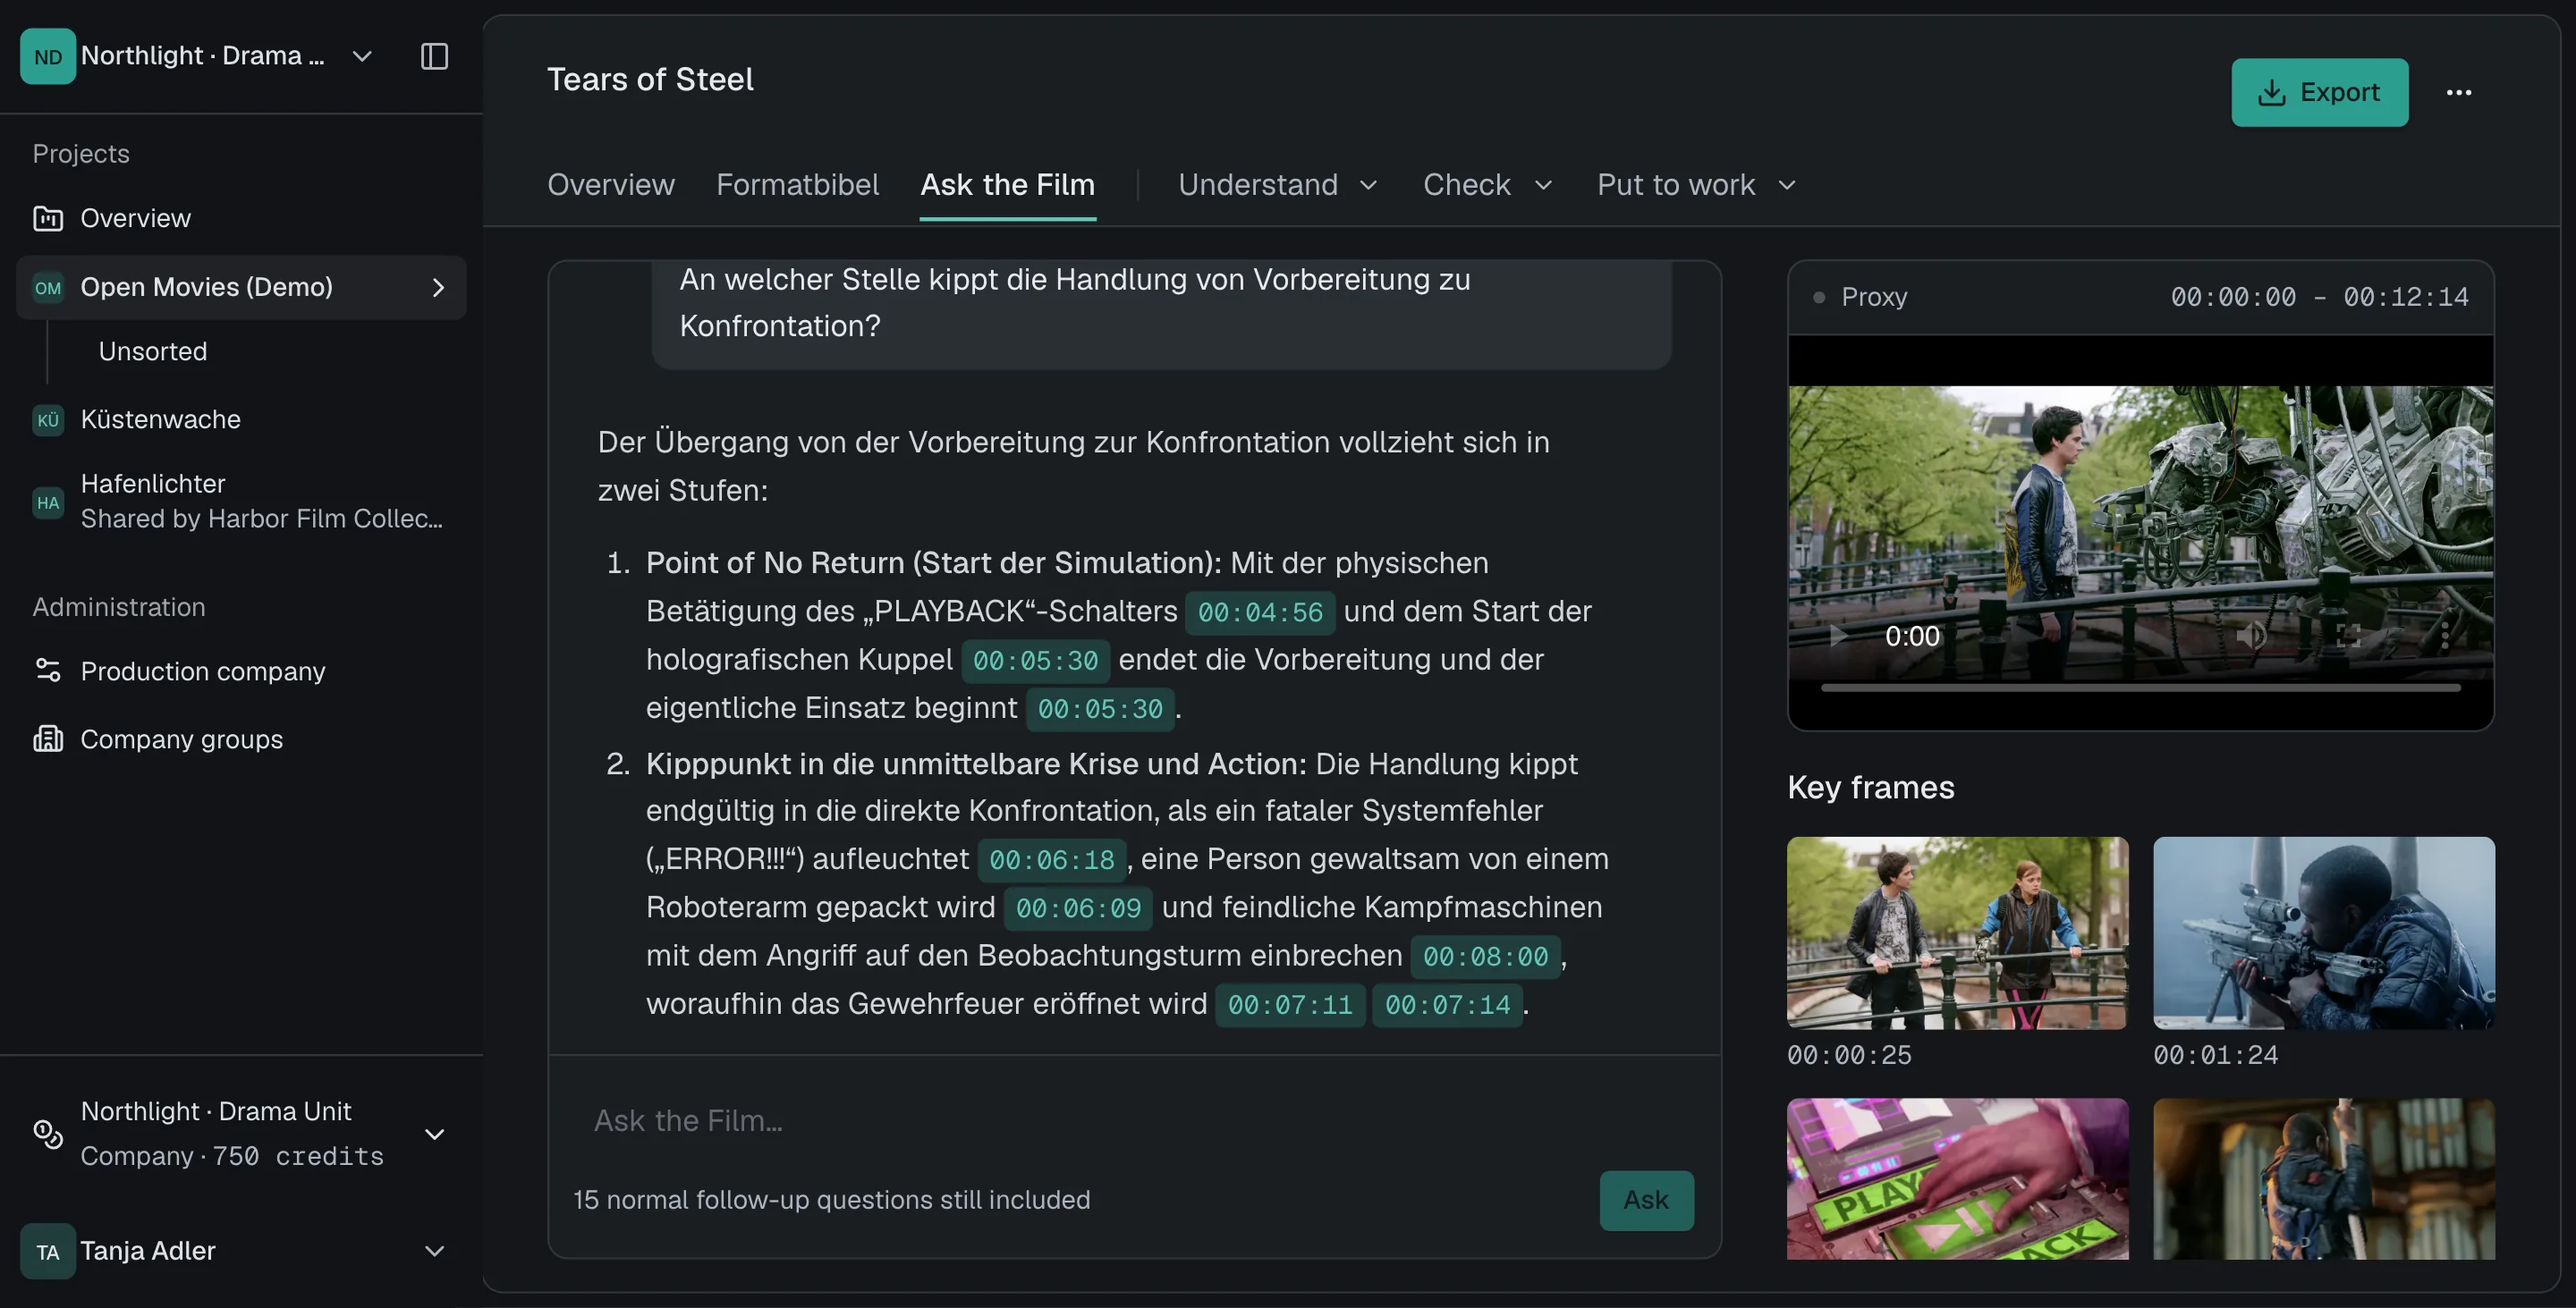
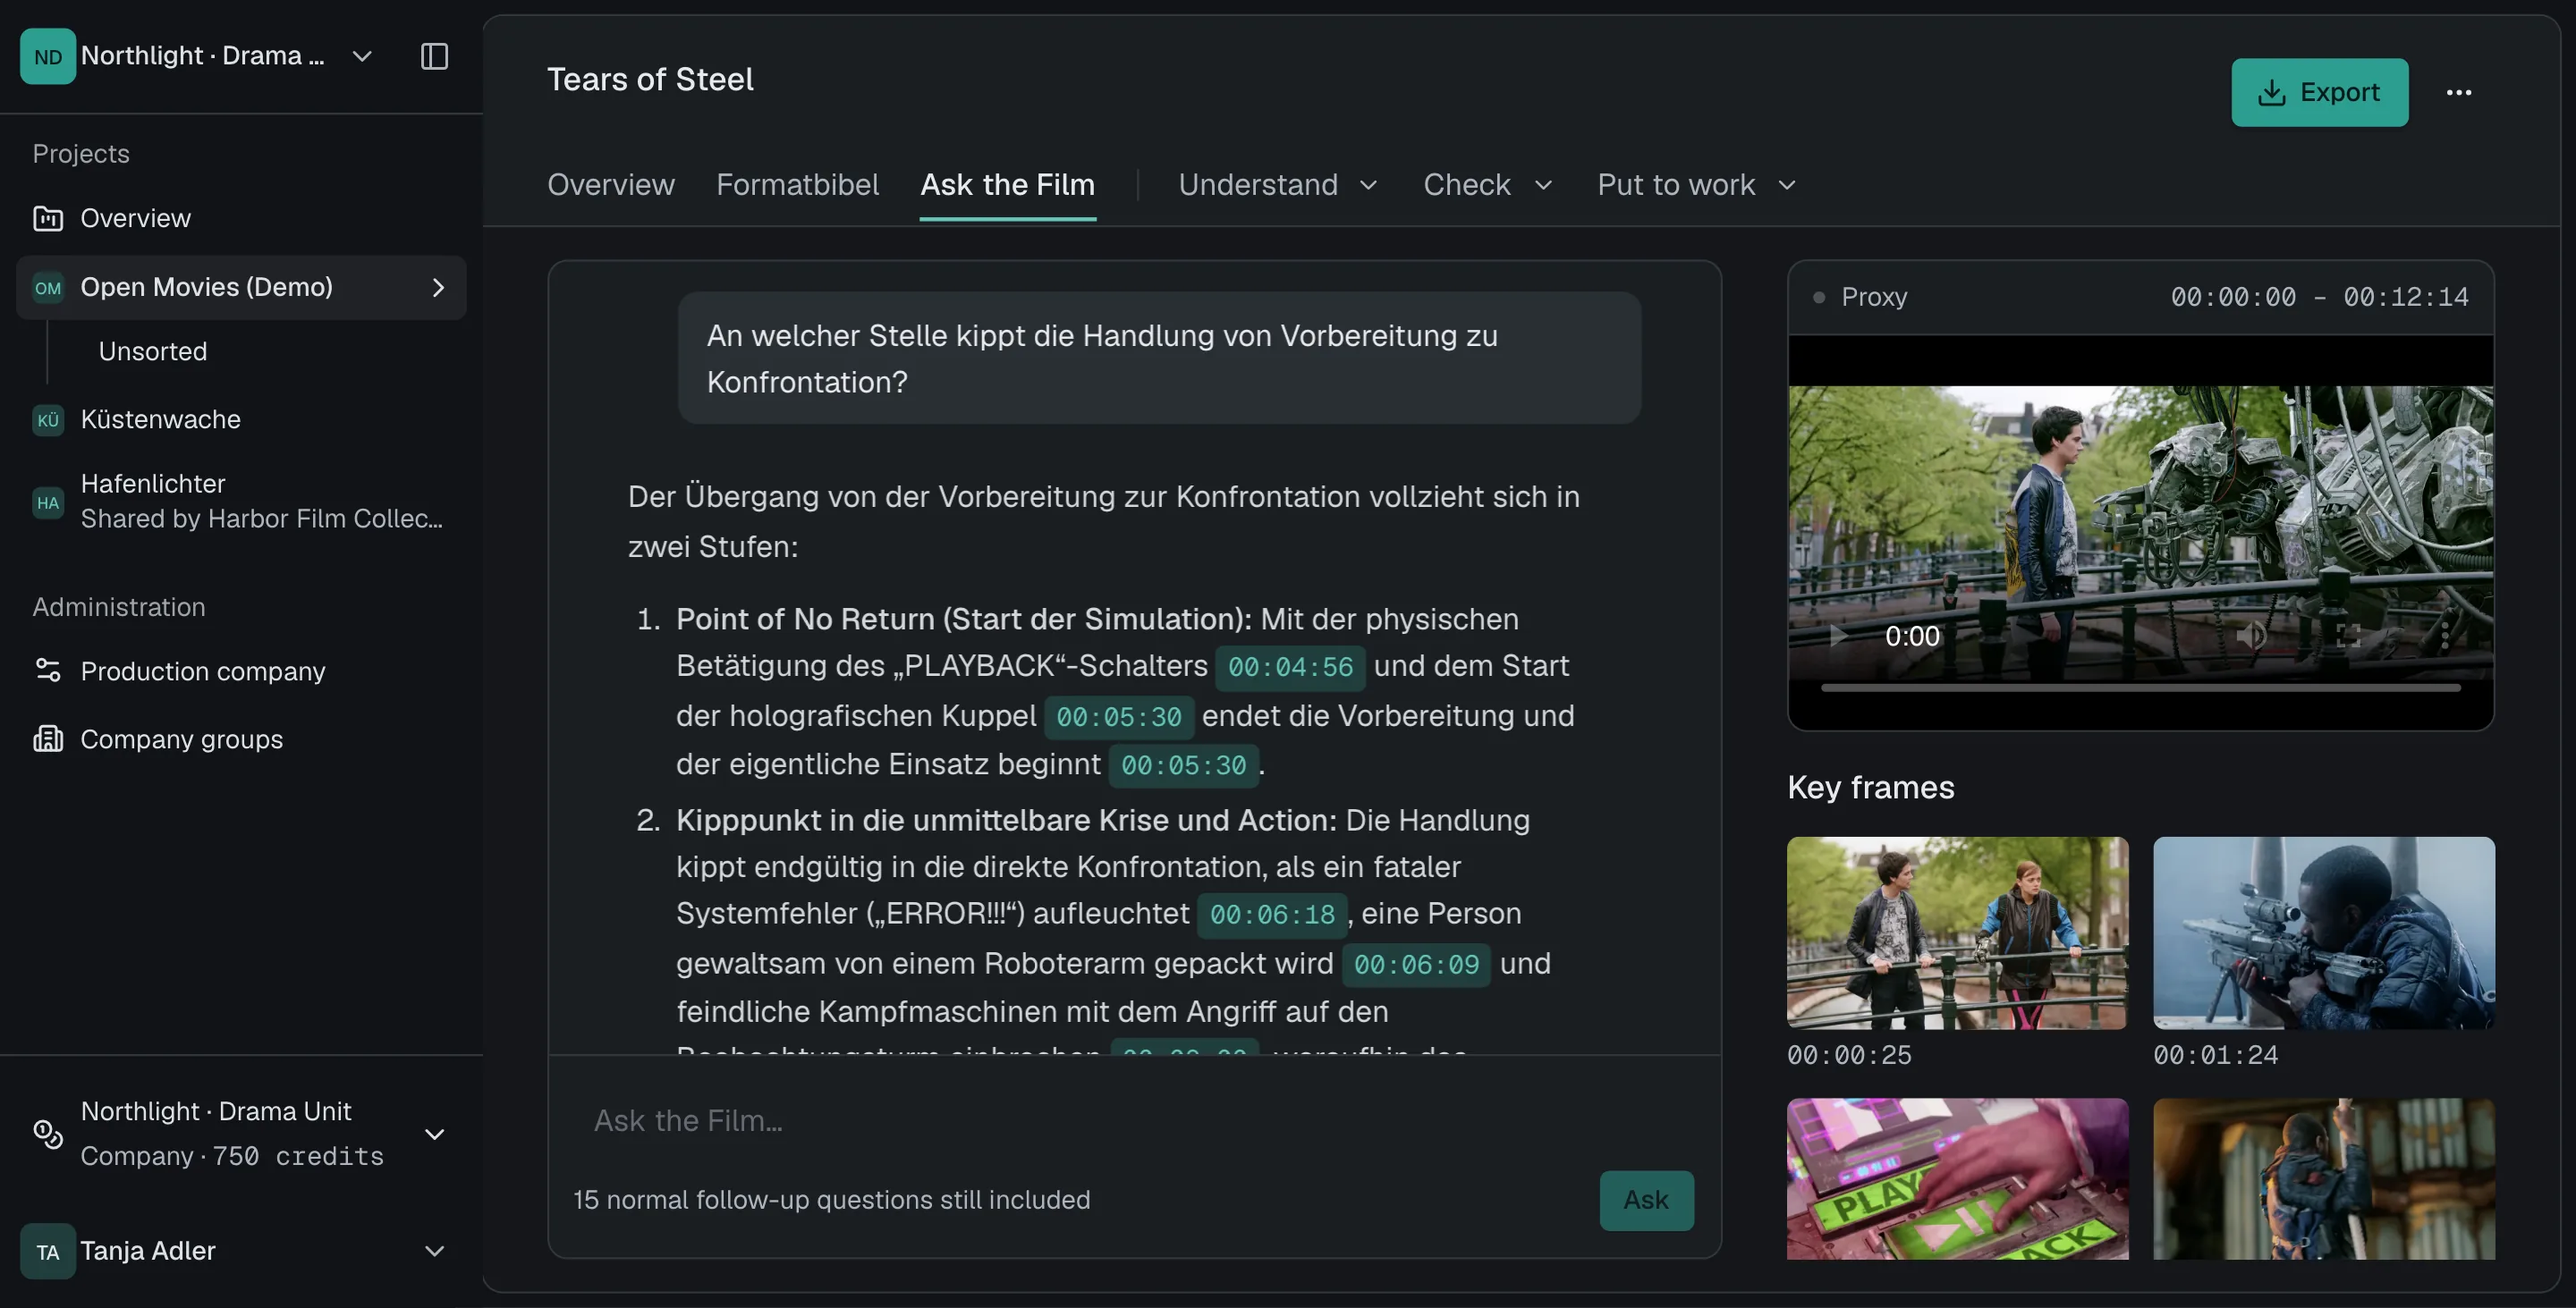
Show screencurve's new landing and its German app on German pages
screencurve.com now opens on its Laufzeitleiste (screencurve PR #86), so
the cover picture is the live site's new first screen. German pages now
show the German app: a locale file may name its own pictures, and the
German case study, cover and card still come from screencurve's German
captures. The home wall picks the German screens on German pages too.

The English app views were recaptured and match the current pictures,
so they stay; only the chat view is new, scrolled so its question shows.
The card stills follow the MP Bau stand-in: the scene's first frame at
800px, transparent ground. Every screencurve picture moves to
?v=20261115-laufzeitleiste.

Changed region(s): [[0.2188, 0.3076, 0.625, 0.8305], [0.25, 0.1846, 0.5938, 0.3076], [0.4688, 0.1846, 0.5312, 0.2153]]

diff --git a/apps/web/src/components/marketing/home/hero-wall.tsx b/apps/web/src/components/marketing/home/hero-wall.tsx
@@ -8,12 +8,15 @@ import "./hero-wall.css";
 const shots = "/images/case-studies";
 const wall = "/images/home/wall";
 const obsidian = "?v=20261111-eagle-obsidian";
-const openMovies = "?v=20261114-open-movies";
+const laufzeitleiste = "?v=20261115-laufzeitleiste";
 
 /** A desktop screen. A wide one is 2:1, the others 16:10, as the screens
  * are. With `page`, the picture is a long page (its height over its width)
  * that scrolls inside the frame. */
 interface Screen {
+	/** The same screen in German, for a product whose pictures follow the
+	 * page's locale. */
+	de?: string;
 	page?: number;
 	src: string;
 	wide?: boolean;
@@ -48,7 +51,11 @@ const COLUMNS: Tile[][] = [
 		{ src: `${shots}/relay/view-3.webp` },
 		{ src: `${shots}/old-world-labs/sectors.webp`, wide: true },
 		{ src: `${shots}/morrow/hero-v3.webp` },
-		{ src: `${shots}/screencurve/ask-the-film.webp${openMovies}`, wide: true },
+		{
+			src: `${shots}/screencurve/ask-the-film.webp${laufzeitleiste}`,
+			de: `${shots}/screencurve/ask-the-film-de.webp${laufzeitleiste}`,
+			wide: true,
+		},
 		{ src: `${shots}/kernspan/assembly-v2.webp` },
 	],
 	[
@@ -92,7 +99,11 @@ const COLUMNS: Tile[][] = [
 			wide: true,
 		},
 		{ src: `${shots}/relay/hero-v2.webp` },
-		{ src: `${shots}/screencurve/landing.webp${openMovies}`, wide: true },
+		{
+			src: `${shots}/screencurve/landing.webp${laufzeitleiste}`,
+			de: `${shots}/screencurve/landing-de.webp${laufzeitleiste}`,
+			wide: true,
+		},
 		{ src: `${shots}/keel/view-1.webp` },
 		{ src: `${shots}/hyyve/how-it-works.webp`, wide: true },
 		{ src: `${shots}/morrow/graph-v3.webp` },
@@ -157,7 +168,13 @@ function Picture({
 /** The first screen's showreel: real screens of the projects as one wall,
  * turned a few degrees, its columns drifting slowly against each other.
  * Every frame is shown whole and undistorted, and a few pages scroll. */
-export default function HeroWall({ label }: { label: string }) {
+export default function HeroWall({
+	label,
+	locale,
+}: {
+	label: string;
+	locale: string;
+}) {
 	return (
 		<div
 			aria-label={label}
@@ -214,7 +231,7 @@ export default function HeroWall({ label }: { label: string }) {
 											page={tile.page}
 											shape={tile.wide ? 0.5 : 0.625}
 											sizes={SCREEN_SIZES}
-											src={tile.src}
+											src={(locale === "de" && tile.de) || tile.src}
 										/>
 									</span>
 								)

diff --git a/apps/web/src/data/case-studies.ts b/apps/web/src/data/case-studies.ts
@@ -111,7 +111,11 @@ const caseStudyContentSchema = z.object({
 
 const localizedCaseStudyFileSchema = caseStudyContentSchema
 	.extend({
+		// Pictures of a product shown in this locale's own interface
+		cardImage: z.string().min(1).optional(),
+		coverImage: z.string().min(1).optional(),
 		deliveryTime: z.string().min(1).optional(),
+		images: z.array(z.string().min(1)).optional(),
 		industry: z.string().min(1).optional(),
 		location: z.string().min(1).optional(),
 	})
@@ -266,6 +270,7 @@ function toCaseStudy(slug: string, locale: string): CaseStudy | null {
 
 	const localeFile = locale === "en" ? null : getLocalizedFile(slug, locale);
 	const content = localeFile ?? enFile;
+	const images = localeFile?.images ?? enFile.images;
 
 	return {
 		slug,
@@ -274,9 +279,9 @@ function toCaseStudy(slug: string, locale: string): CaseStudy | null {
 		industry: localeFile?.industry ?? enFile.industry,
 		services: [...enFile.services],
 		date: enFile.date,
-		cardImage: enFile.cardImage,
-		coverImage: enFile.coverImage,
-		images: enFile.images ? [...enFile.images] : undefined,
+		cardImage: localeFile?.cardImage ?? enFile.cardImage,
+		coverImage: localeFile?.coverImage ?? enFile.coverImage,
+		images: images ? [...images] : undefined,
 		imageAlts: content.imageAlts ? [...content.imageAlts] : undefined,
 		fullPageImage: enFile.fullPageImage,
 		location: localeFile?.location ?? enFile.location,

diff --git a/apps/web/src/components/marketing/home/hero.tsx b/apps/web/src/components/marketing/home/hero.tsx
@@ -1,5 +1,5 @@
 import Image from "next/image";
-import { getTranslations } from "next-intl/server";
+import { getLocale, getTranslations } from "next-intl/server";
 
 import { ActionLink } from "@/components/marketing/action";
 import HeroWall from "@/components/marketing/home/hero-wall";
@@ -10,6 +10,7 @@ const factKeys = ["0", "2"] as const;
 
 export default async function Hero() {
 	const t = await getTranslations("home");
+	const locale = await getLocale();
 
 	return (
 		<section
@@ -92,7 +93,7 @@ export default async function Hero() {
 					</ul>
 
 					<div className="relative mx-auto mt-12 max-w-[1180px] md:mt-16">
-						<HeroWall label={t("stage.wall")} />
+						<HeroWall label={t("stage.wall")} locale={locale} />
 					</div>
 				</div>
 			</GridContainer>

diff --git a/apps/web/src/data/services.ts b/apps/web/src/data/services.ts
@@ -122,7 +122,7 @@ export const services: Service[] = [
 		proof: {
 			caseStudySlug: "screencurve",
 			image:
-				"/images/case-studies/screencurve/hero.webp?v=20261114-open-movies",
+				"/images/case-studies/screencurve/hero.webp?v=20261115-laufzeitleiste",
 		},
 	},
 	{
@@ -150,7 +150,7 @@ export const services: Service[] = [
 		proof: {
 			caseStudySlug: "screencurve",
 			image:
-				"/images/case-studies/screencurve/ask-the-film.webp?v=20261114-open-movies",
+				"/images/case-studies/screencurve/ask-the-film.webp?v=20261115-laufzeitleiste",
 		},
 	},
 ];

diff --git a/apps/web/next.config.ts b/apps/web/next.config.ts
@@ -32,11 +32,15 @@ const nextConfig: NextConfig = {
 			},
 			{
 				pathname: "/images/case-studies/screencurve/**",
-				search: "?v=20261114-open-movies",
+				search: "?v=20261115-laufzeitleiste",
 			},
 			{
 				pathname: "/images/home/work/screencurve.webp",
-				search: "?v=20261114-open-movies",
+				search: "?v=20261115-laufzeitleiste",
+			},
+			{
+				pathname: "/images/home/work/screencurve-de.webp",
+				search: "?v=20261115-laufzeitleiste",
 			},
 			{
 				pathname: "/images/home/work/mpb.webp",

diff --git a/apps/web/src/data/systems.ts b/apps/web/src/data/systems.ts
@@ -27,7 +27,7 @@ export const customSystems: CustomSystem[] = [
 		proof: {
 			caseStudySlug: "screencurve",
 			image:
-				"/images/case-studies/screencurve/archive.webp?v=20261114-open-movies",
+				"/images/case-studies/screencurve/archive.webp?v=20261115-laufzeitleiste",
 		},
 	},
 	{
